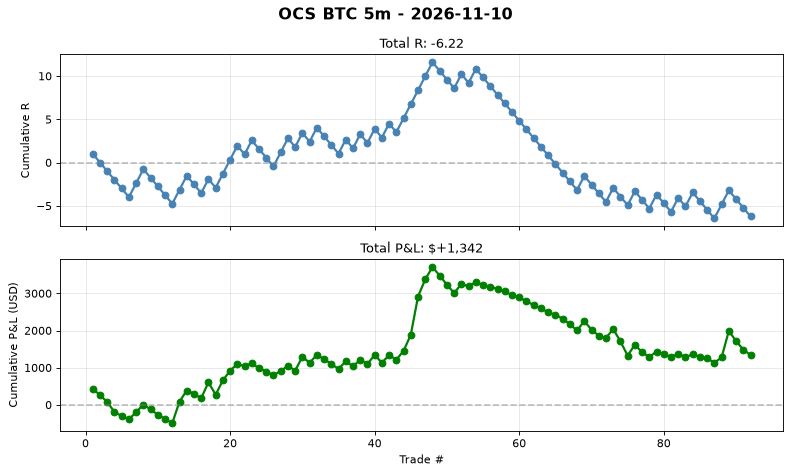
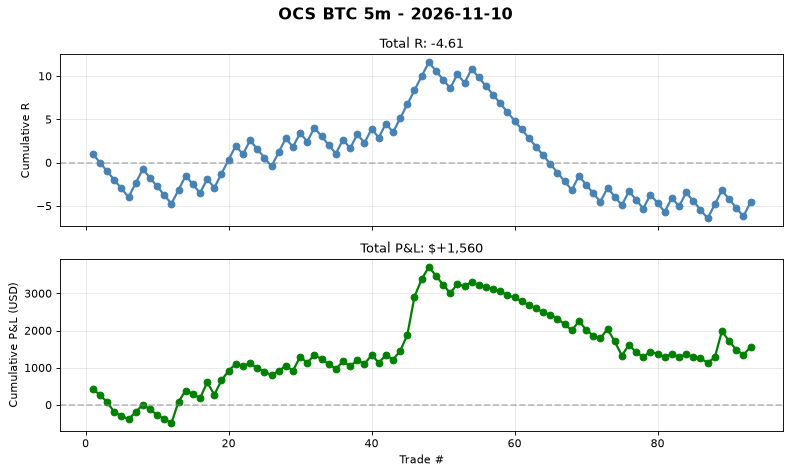
auto(ocs-btc): signal log 2026-11-10T10:24 trades=93

diff --git a/automation/reports/ocs_btc_5m/daily/2026-11-10.md b/automation/reports/ocs_btc_5m/daily/2026-11-10.md
@@ -1,25 +1,25 @@
 # OCS BTC 5m - 2026-11-10
 
 ## Summary
-- **Trades**: 1 (0W / 1L)
-- **Win Rate**: 0.0%
-- **Total R**: -1.00R
-- **Total P&L**: $-146
-- **Avg R**: -1.00R
-- **Profit Factor**: 0.89
+- **Trades**: 2 (1W / 1L)
+- **Win Rate**: 50.0%
+- **Total R**: +0.62R
+- **Total P&L**: $+72
+- **Avg R**: +0.31R
+- **Profit Factor**: 0.92
 
 ## Exit Breakdown
 - T1 (+1.0R): 1
-- T2 (+1.618R): 32
+- T2 (+1.618R): 33
 - T3 (+2.618R): 0
 - T4 (+3.618R): 0
 - T5 (+5.0R): 0
 - SL (-1.0R): 59
 
 ## Best Trade
-- **SHORT** at 74,711 -> SL 74,858
-- R = -1.00, P&L = $-146
-- Held for 4 bars
+- **SHORT** at 74,647 -> T2 74,429
+- R = +1.62, P&L = $+218
+- Held for 3 bars
 
 ## Worst Trade
 - **SHORT** at 74,711 -> SL 74,858
@@ -27,11 +27,11 @@
 - Held for 4 bars
 
 ## Cumulative Stats (Lifetime)
-- Total trades: 92
-- WR: 35.9%
-- Avg R: -0.068
-- Total R: -6.22R
-- Profit Factor: 0.89
+- Total trades: 93
+- WR: 36.6%
+- Avg R: -0.05
+- Total R: -4.61R
+- Profit Factor: 0.92
 
 ## Chart
 See `daily/2026-11-10.png` for cumulative P&L curve.
